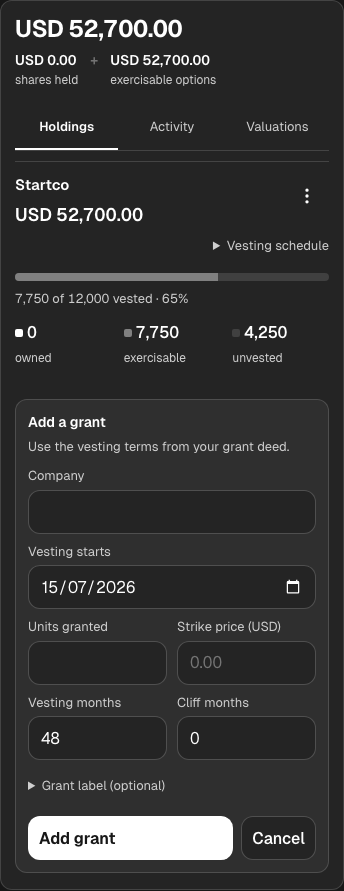
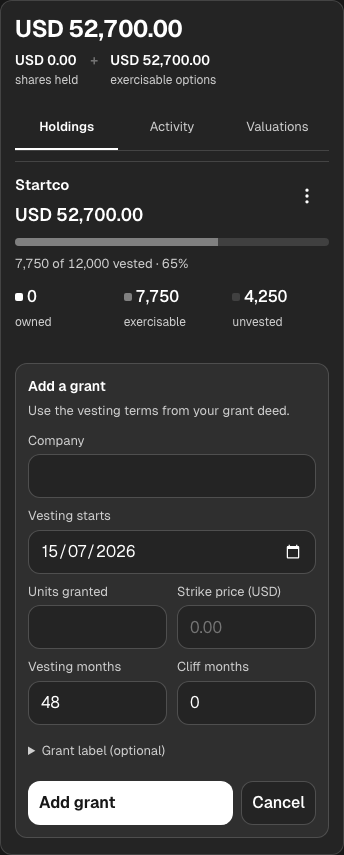
Move vesting schedule into grant actions menu

diff --git a/packages/web/tests/equity-mobile.spec.ts b/packages/web/tests/equity-mobile.spec.ts
@@ -16,7 +16,7 @@ async function capture(panel: Locator, testInfo: TestInfo, name: string) {
     await panel.screenshot({
       path: testInfo.outputPath(`${name}.png`),
       // Keep fixed shell navigation out of these component-only review images.
-      style: ".rail, .subbar { visibility: hidden !important; }",
+      style: ".rail, .subbar, .panel-col { visibility: hidden !important; }",
     });
   } finally {
     await page.setViewportSize(viewport);
@@ -53,17 +53,20 @@ for (const width of [320, 402, 768, 1280]) {
     expect(Math.abs(value.x - title.x)).toBeLessThan(1);
     expect(value.y).toBeGreaterThan(title.y);
     const menu = (await panel.locator(".menu-trigger").boundingBox())!;
-    const schedule = (await panel.locator(".grant-terms summary").boundingBox())!;
     expect(menu.x).toBeGreaterThan(title.x);
     expect(Math.abs(menu.y - title.y)).toBeLessThan(8);
-    expect(schedule.y).toBeGreaterThan(menu.y);
-    expect(Math.abs(schedule.x + schedule.width - menu.x - menu.width)).toBeLessThan(1);
+    await expect(panel.getByText("Vesting schedule", { exact: true })).toHaveCount(0);
     await capture(panel, testInfo, `holdings-${width}`);
     await fits(panel);
-    await panel.getByText("Vesting schedule", { exact: true }).click();
-    await expect(panel.locator(".grant-terms p")).toContainText("48 months");
+    await panel.getByRole("button", { name: "Actions for Startco", exact: true }).click();
+    await panel.getByRole("menuitem", { name: "Vesting schedule", exact: true }).click();
+    await expect(panel.getByRole("menu")).toHaveCount(0);
+    await expect(panel.locator(".grant-terms")).toContainText("48 months");
     await fits(panel);
-    await panel.getByText("Vesting schedule", { exact: true }).click();
+    await panel.getByRole("button", { name: "Actions for Startco", exact: true }).click();
+    await expect(panel.getByRole("menuitem", { name: "Vesting schedule", exact: true })).toHaveAttribute("aria-expanded", "true");
+    await panel.getByRole("menuitem", { name: "Vesting schedule", exact: true }).click();
+    await expect(panel.locator(".grant-terms")).toHaveCount(0);
     await panel.getByRole("button", { name: "Actions for Startco", exact: true }).click();
     await expect(panel.getByRole("menu")).toBeVisible();
     await fits(panel);

diff --git a/packages/web/src/lib/EquityPanel.svelte b/packages/web/src/lib/EquityPanel.svelte
@@ -24,6 +24,7 @@
   let error = $state<string | null>(null);
   let notice = $state<string | null>(null);
   let openGrantMenu = $state<number | null>(null);
+  let scheduleFor = $state<number | null>(null);
 
   async function toggleGrantMenu(grantId: number) {
     openGrantMenu = openGrantMenu === grantId ? null : grantId;
@@ -395,6 +396,16 @@
                     openGrantMenu = null;
                     startEditGrant(g.grant_id);
                   }}>Edit</button>
+                  <button
+                    role="menuitem"
+                    aria-expanded={scheduleFor === g.grant_id}
+                    aria-controls="grant-schedule-{accountId}-{g.grant_id}"
+                    onclick={() => {
+                      scheduleFor = scheduleFor === g.grant_id ? null : g.grant_id;
+                      document.getElementById(`grant-actions-${accountId}-${g.grant_id}`)?.focus();
+                      openGrantMenu = null;
+                    }}
+                  >Vesting schedule</button>
                   <button role="menuitem" class="delete-action" onclick={() => {
                     openGrantMenu = null;
                     showGrantForm = false;
@@ -404,10 +415,11 @@
                 </div>
               {/if}
             </div>
-            <details class="grant-terms">
-              <summary>Vesting schedule</summary>
-              <p class="small muted">{termsLine(g)}</p>
-            </details>
+            {#if scheduleFor === g.grant_id}
+              <p id="grant-schedule-{accountId}-{g.grant_id}" class="grant-terms small muted">
+                {termsLine(g)}
+              </p>
+            {/if}
           </div>
 
           <div class="progress">
@@ -851,12 +863,7 @@
   }
   .grant-top .grant-terms {
     grid-column: 1 / -1;
-    margin: 0;
-  }
-  .grant-terms summary {
-    text-align: right;
-  }
-  .grant-terms p {
+    margin: 8px 0 0;
     text-align: left;
     overflow-wrap: anywhere;
   }
